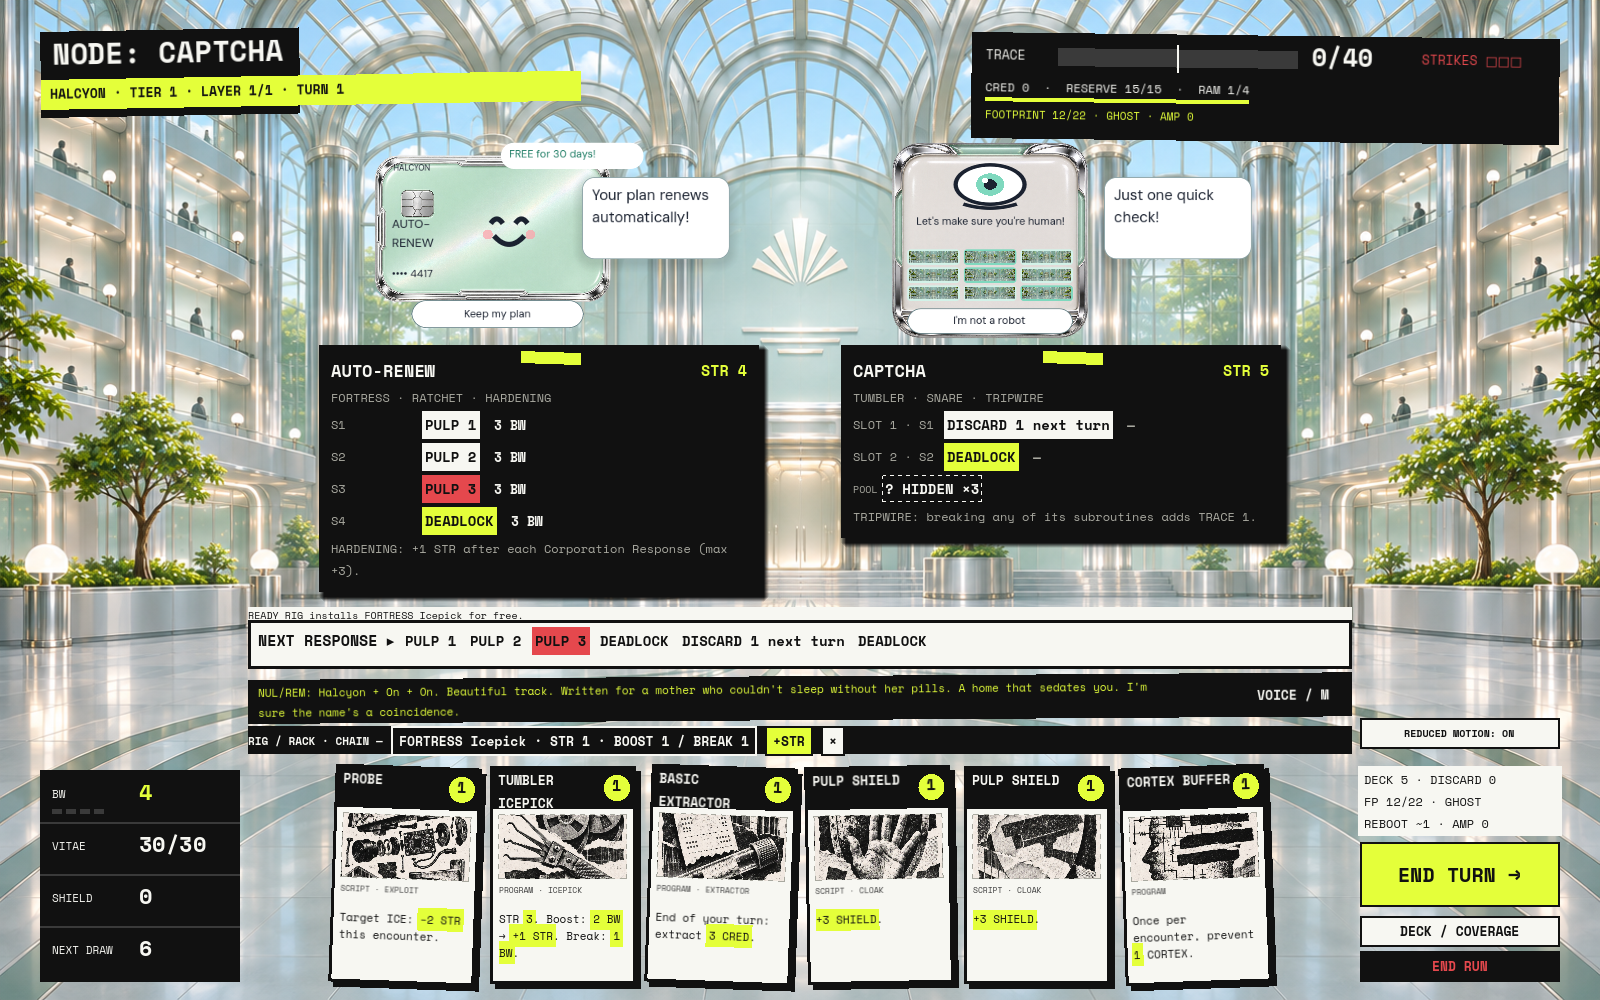
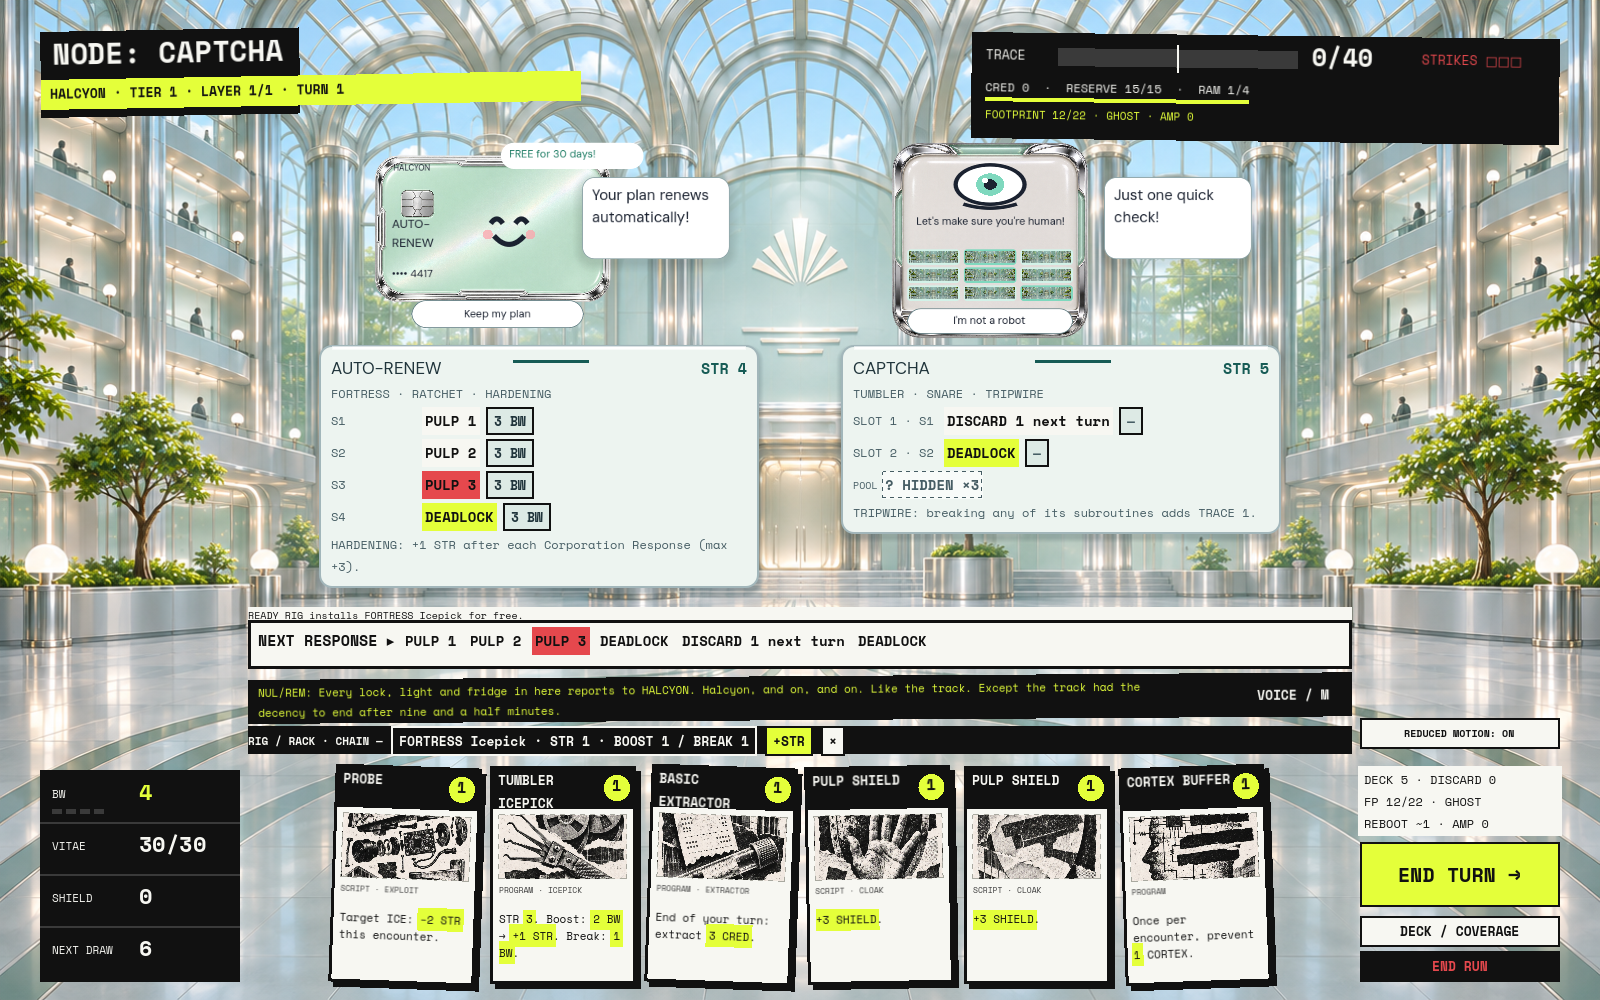
CHROME-001: Replace black ICE rule backgrounds with pearl-enamel corporate service plaques

Changed region(s): [[0.1875, 0.341, 0.8125, 0.62], [0.1875, 0.682, 0.7188, 0.713]]

diff --git a/docs/HALCYON_PLAYTEST_GUIDE.md b/docs/HALCYON_PLAYTEST_GUIDE.md
@@ -117,8 +117,8 @@ The turn-3 fixture advances two real Corporation Responses and resolves CAPTCHA'
 
 This candidate is on `codex/chrome-deco-encounter`, targeting stabilization and including the unmerged VIS-001 dependency. No Windows build was exported for this experiment. The ten PNGs in `docs/visual/fixtures/chrome-001/` are captures of the live Godot encounter, not generated UI mockups. The earlier rejected flat/thin-rim samples have been superseded by refreshed samples.
 
-The CAPTCHA fixture uses actual AUTO-RENEW/CAPTCHA stats and Generalist cards. The atrium and pearl/chrome mascot shells are illustration assets; every face, rule, cost and control remains live. Taped scan panels keep a solid backing against the detailed architecture. Card art is a six-motif prototype atlas, reused by role while preserving authored card text. It does not introduce new cards or effects.
+The CAPTCHA fixture uses actual AUTO-RENEW/CAPTCHA stats and Generalist cards. The atrium and pearl/chrome mascot shells are illustration assets; every face, rule, cost and control remains live. ICE rules now sit on pearl-enamel service plaques with slate lettering, silver edges and restrained teal accents. Hidden and broken chips use pale dashed/struck-through states; rules retain a solid backing against the architecture. Card art is a six-motif prototype atlas, reused by role while preserving authored card text. It does not introduce new cards or effects.
 
 At TRACE 20 the same atrium reveals a partial surveillance view. First strike shows hostile lighting and the existing “We see you.” modal; second strike reveals the cameras, processing rails and restraint stations while the paper interface remains unchanged. All thresholds and TRACER/Black ICE effects still come from Game.
 
-For the interaction sample, drag the installed FORTRESS Icepick onto AUTO-RENEW S1. Legal rows have dashed lime outlines; the hovered target has a solid outline and the separate top-center feedback box shows the exact BW cost and MARGIN. In this fixture the initial break costs 3 BW including boosts. Release to break: the rule is struck through, AUTO-RENEW becomes wary, and the feedback confirms the cost. Dragging that FORTRESS pick onto CAPTCHA instead shows a red outline and “NO TUMBLER ICEPICK”; releasing spends nothing. The small drag cursor avoids putting a duplicate card-length label or native tooltip over rules. Card hover/keyboard browsing raises the card with a lime paper edge. Existing reduced-motion and five-second-response behaviour remain.
+For the interaction sample, drag the installed FORTRESS Icepick onto AUTO-RENEW S1. Legal rows have dashed dark-teal outlines; the hovered target has a solid outline and the separate top-center feedback box shows the exact BW cost and MARGIN. In this fixture the initial break costs 3 BW including boosts. Release to break: the rule is struck through, AUTO-RENEW becomes wary, and the feedback confirms the cost. Dragging that FORTRESS pick onto CAPTCHA instead shows a red outline and “NO TUMBLER ICEPICK”; releasing spends nothing. The small drag cursor avoids putting a duplicate card-length label or native tooltip over rules. Card hover/keyboard browsing raises the card with a lime paper edge. Existing reduced-motion and five-second-response behaviour remain.

diff --git a/docs/REDLINE_CURRENT_STATUS.md b/docs/REDLINE_CURRENT_STATUS.md
@@ -13,4 +13,6 @@ Cards retain their printed size; hands of seven or more fan without a gameplay c
 Validation: 357 rules checks pass. The 30-seed bot results match the ZEROED/TUMBLE baseline for all four Rustlers. Seven display-backed scripts cover choices, large hands, drag actions, moods/states, readability and screenshots; fixture PNGs are committed under `docs/visual/fixtures/vis-001/` and embedded in the visual PR. Per-step evidence and presentation interpretations are in the development log; designer approval/playtest is outstanding. This feature has not been merged or exported as a Windows release. HANDOFF remains the only task list.
 
 
-CHROME-001 refines the CAPTCHA encounter toward the designer-selected Chrome Deco direction. The initial flat/thin-rim samples were rejected; the revised candidate uses an illustrated celadon/pearl/chrome atrium, transparent appliance-shell art behind independent face/control layers, and a monochrome collage atlas on paper cards. The same architecture reveals cameras, galleries and restraint stations in the strike/Mask-off background. Rules/scan panels remain opaque and larger; illustrations are clipped to their frames. Dragging an Icepick highlights legal rows and shows the selected cost/MARGIN or rejection reason in a separate header; successful breaks confirm the BW spent. No gameplay data or rule values changed. Prototype art and visual fidelity await designer review; the corrected concept is a benchmark, not an implementation screenshot. Refreshed per-step PNGs are under `docs/visual/fixtures/chrome-001/`. Existing broader slice systems are unchanged. Audio development remains outside this visual task.
+CHROME-001 refines the CAPTCHA encounter toward the designer-selected Chrome Deco direction. The initial flat/thin-rim samples were rejected; the revised candidate uses an illustrated celadon/pearl/chrome atrium, transparent appliance-shell art behind independent face/control layers, and a monochrome collage atlas on paper cards. The same architecture reveals cameras, galleries and restraint stations in the strike/Mask-off background. Rules/scan panels are opaque pearl-enamel service plaques with slate text and silver edges; illustrations are clipped to their frames. Dragging an Icepick highlights legal rows and shows the selected cost/MARGIN or rejection reason in a separate header; successful breaks confirm the BW spent. No gameplay data or rule values changed. Prototype art and visual fidelity await designer review; the corrected concept is a benchmark, not an implementation screenshot. Refreshed per-step PNGs are under `docs/visual/fixtures/chrome-001/`. Existing broader slice systems are unchanged. Audio development remains outside this visual task.
+
+The latest CHROME-001 plaque revision replaces the black ICE rule panels with pearl enamel, slate/slate-teal lettering and soft silver rims. Hidden/broken chips retain dashed/strike-through states on pale backgrounds; legal-target outlines use dark teal for contrast. Rustler paper/toner controls remain distinct. This revision is uploaded to PR #12 but awaits designer approval before merge to the shared game branch.

diff --git a/docs/REDLINE_DEVELOPMENT_LOG.md b/docs/REDLINE_DEVELOPMENT_LOG.md
@@ -503,3 +503,15 @@ GENERALIST also has two stalls, counted separately from deaths. Mean end decks G
 **Interpretations to confirm:** 2.5-second break confirmation and header placement are working UI choices. Illustrated shells, shared collage motifs and detailed backgrounds remain prototype art; final fidelity to the concept and undrawn ICE/copy await designer review. This implements one encounter direction, not a completed whole-game art collection. Audio development, Windows export and manual Windows playtest are deferred. One feature PR targets stabilization and includes unmerged PR #11/#9 dependencies; nothing was merged or pushed directly to the working branch. The guide/status/HANDOFF are updated in place; design documents and Claude project copies are unchanged.
 
 **Sample delivery:** `chrome-001-review` stores the ten selected PNGs. The download ZIP excludes unrelated regression screenshots; `chrome-001-step5` identifies the implementation commit.
+
+## 2026-11-17 — CHROME-001 plaque revision: pearl enamel instead of black ICE panels (Codex)
+
+**Commit tag:** `chrome-001-enamel`.
+
+**Designer request:** “The black backgrounds on the ice in the images don’t work with the rest of the design. Find an appropriate change … atomic age /art deco / clean friendly corporation design.” Also: “Once approved, commit pr #12 to the shared game branch.” This authorizes the revision and a merge after designer approval of the result; no merge is performed in this revision.
+
+**Changed:** the ICE rule surfaces are now corporate pearl-enamel service plaques with dark slate text, silver edges/soft shadows, a restrained teal service mark and corporate heading font. Hidden/broken chips use pale surfaces while preserving dashed borders and strike-through. Costs remain legible; TUMBLER reel frames match the enamel. Legal target outlines use dark teal instead of lime against the light panels; invalid targets remain red. The Rustler paper/toner hand/HUD remain distinct. Dark hostile mascot shells still communicate Mask off; this removes the large black rule rectangles beneath them without hiding any rules.
+
+**Validation:** Godot 4.3 import and 357 rules checks pass; Friendly Lie 170 checks pass; all five Chrome screenshot stages pass, including actual legal/incompatible native drops and no payment on invalid drops. Refreshed ten full-screen PNGs and the download ZIP. Calculated text contrast: slate/enamel 11.64:1, muted text/enamel 6.25:1, muted text/broken chip 5.51:1, teal/enamel 7.06:1. No rule values changed. The five-step samples in the existing PR are updated in place.
+
+**Interpretations to confirm:** enamel plaques stay clean even in Mask off, reinforcing the corporation's immaculate administrative cruelty. Pearl #EDF4F0, slate #20343B and teal #165B55 are working presentation colors. Final art/fidelity approval remains with the designer. PR #12 remains open targeting `codex/halcyon-playtest-stabilization`; merge is pending that approval.

diff --git a/docs/HANDOFF.md b/docs/HANDOFF.md
@@ -46,7 +46,7 @@ ZEROED-001, its RIOT cards, and TUMBLE-001 are built; see the tagged rows below.
 
 | IDs | Change | Commit reference |
 |---|---|---|
-| CHROME-001 | Refine the CAPTCHA encounter in the designer-selected Chrome Deco direction: readable real rules/cards, illustrated mascot shells, atrium, corporate escalation and native interaction feedback. Ten refreshed full-screen PNG samples; prototype art and final fidelity await review. | **BUILT** — `chrome-001-review` (code `chrome-001-step5`) |
+| CHROME-001 | Refine the CAPTCHA encounter in the designer-selected Chrome Deco direction: readable real rules/cards, illustrated mascot shells, atrium, corporate escalation and native interaction feedback. Ten refreshed full-screen PNG samples; pearl-enamel ICE service plaques replace black scan panels per designer feedback; prototype art and final fidelity await review. | **BUILT** — `chrome-001-enamel` (code `chrome-001-step5`) |
 | VIS-001 | The Friendly Lie encounter: fonts/skins, zine hand/HUD, mascot scans and moods, corporation break states, drag/motion/accessibility, seven PNG review fixtures. Visual only; ZEROED/TUMBLE integrated first. | **BUILT** — `vis-001g` (steps `vis-001a`–`vis-001g`) |
 | TUMBLE-001 | Remove broken TUMBLER subs and tumble immediately active replacements | **BUILT** — `zeroed-tumble-step3` |
 | ZEROED-001-cards | Replace INTEGER UNDERFLOW with NULL POINTER and add RIOT ZEROED cards | **BUILT** — `zeroed-tumble-step2` |
